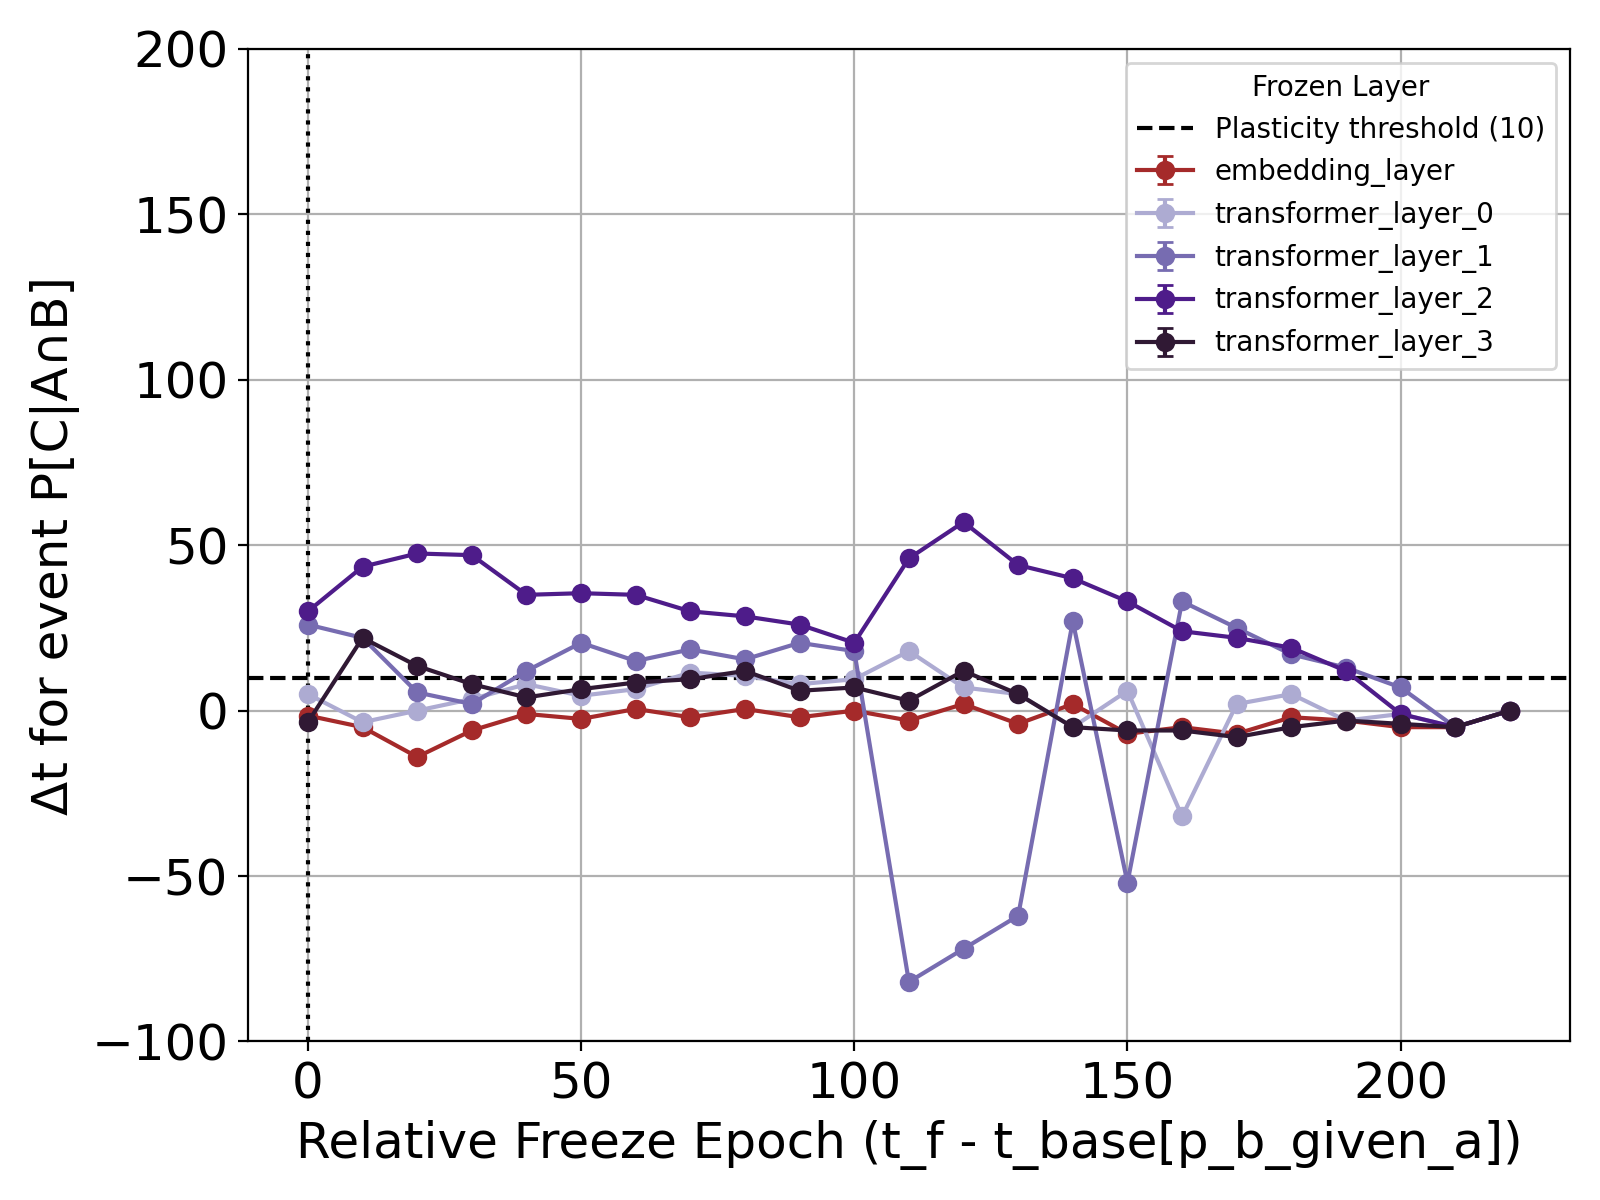
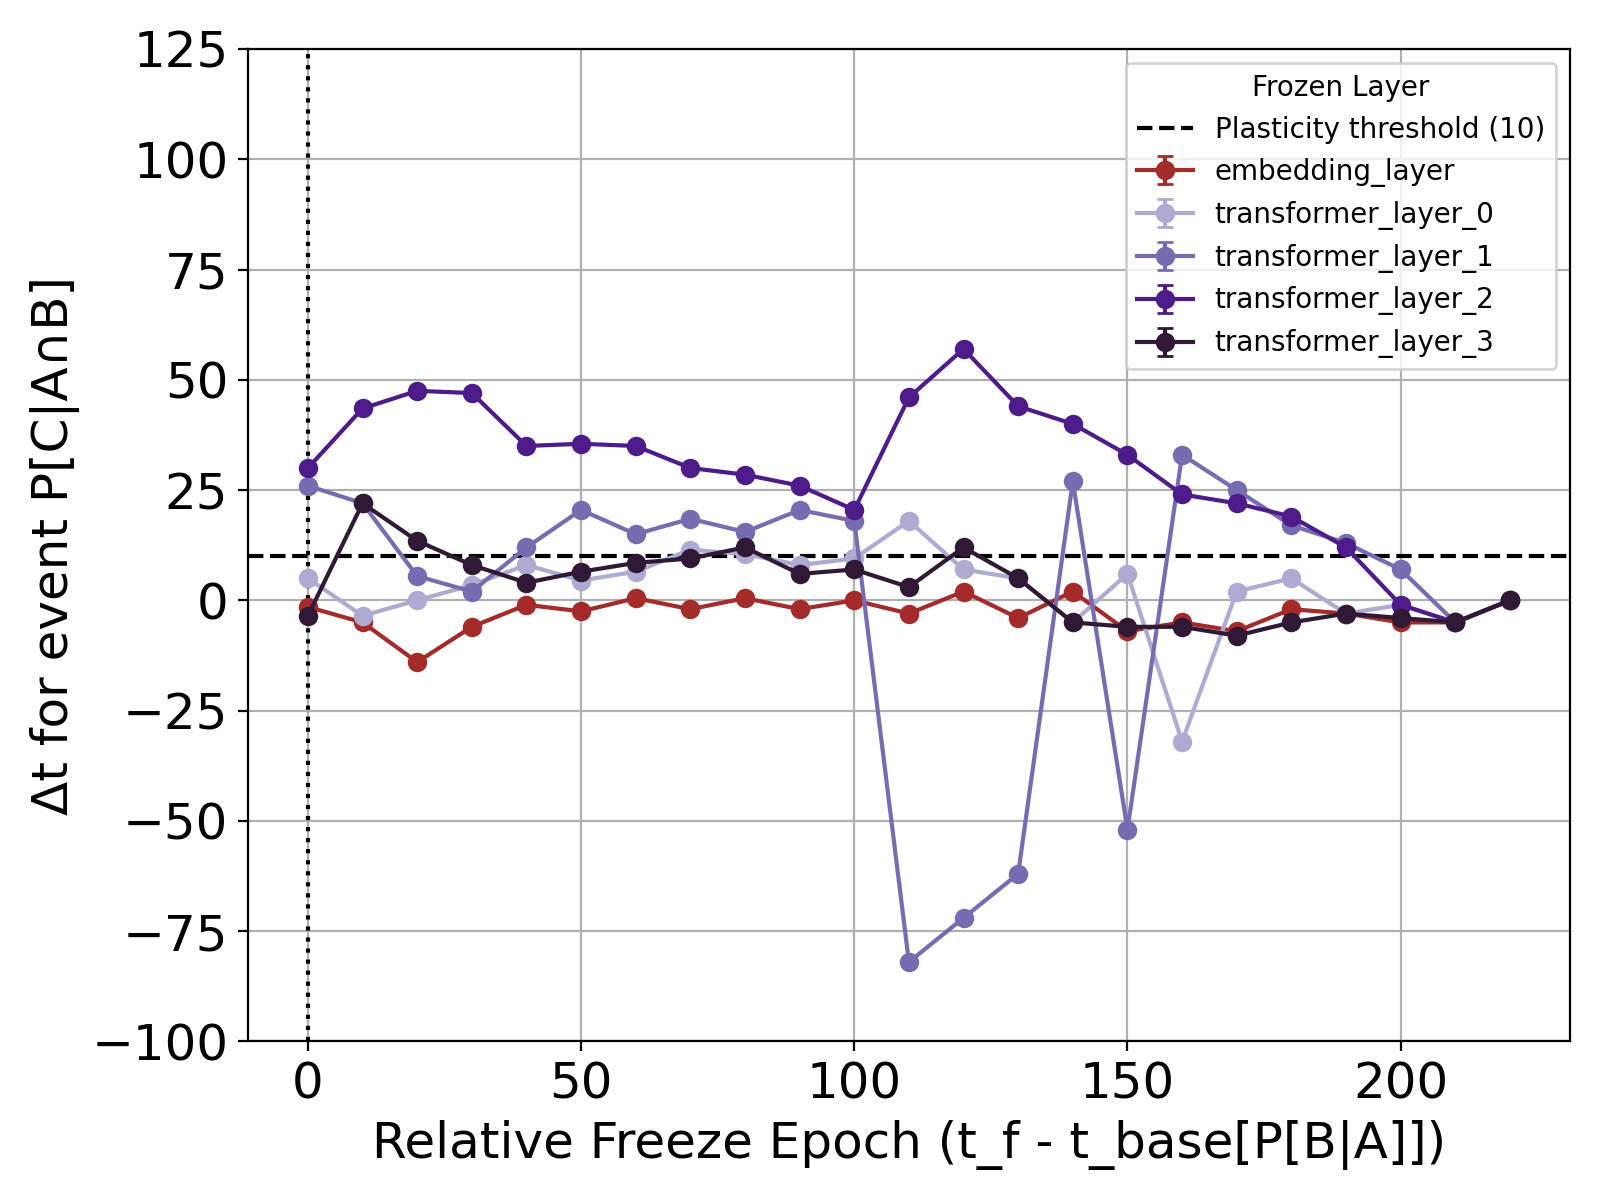
Added plasticity window results for decomposition relative to P[B|A]

diff --git a/src/models/plot_delta_time_to_stage.py b/src/models/plot_delta_time_to_stage.py
@@ -11,12 +11,12 @@ METRIC_KEYS = {
     "p_a": "predicted_in_context_accuracies",
 
     # Held out
-    "p_b_given_a": "predicted_in_context_correct_half_accuracies",
-    "p_c_given_ab": "predicted_in_context_correct_half_exact_accuracies",
+    # "p_b_given_a": "predicted_in_context_correct_half_accuracies",
+    # "p_c_given_ab": "predicted_in_context_correct_half_exact_accuracies",
 
     # Composition
-    # "p_b_given_a": "predicted_in_context_correct_candidate_accuracies",
-    # "p_c_given_ab": "correct_within_candidates"
+    "p_b_given_a": "predicted_in_context_correct_candidate_accuracies",
+    "p_c_given_ab": "correct_within_candidates"
 }
 
 
@@ -349,22 +349,26 @@ def plot_deltas_with_errorbars(
         #     ax.annotate(str(n), (x, y), textcoords="offset points", xytext=(0, 6), ha="center", fontsize=8)
 
     ax.axhline(y=epsilon, color="black", linestyle="--", label=f"Plasticity threshold ({epsilon})")
-
-    if x_mode == "absolute":
-        ax.set_xlabel("Freeze Epoch", fontsize=18)
-    else:
-        if bin_width > 1:
-            xlabel = f"Relative Freeze Epoch (t_f - t_base[{anchor_key or stage_key}])" 
-        else:
-            xlabel = f"Relative Freeze Epoch"
-        ax.set_xlabel(xlabel, fontsize=18)
-        ax.axvline(x=0, color="black", linestyle=":", alpha=1.0)
-
+    
     stage_key_map = {
         "p_b_given_a": "P[B|A]",
         "p_a": "P[A]",
         "p_c_given_ab": "P[C|A∩B]",
     }
+    if x_mode == "absolute":
+        ax.set_xlabel("Freeze Epoch", fontsize=18)
+    else:
+        if bin_width > 1:
+            if anchor_key is None:
+                xlabel = f"Relative Freeze Epoch (t_f - t_base[{stage_key_map.get(stage_key, stage_key)}])" 
+            else:
+                xlabel = f"Relative Freeze Epoch (t_f - t_base[{stage_key_map.get(anchor_key, anchor_key)}])" 
+        else:
+            xlabel = f"Relative Freeze Epoch"
+        ax.set_xlabel(xlabel, fontsize=18)
+        ax.axvline(x=0, color="black", linestyle=":", alpha=1.0)
+
+    
 
     init_seed_str = ",".join(str(s) for s in (init_seeds if init_seeds is not None else [1, 3, 42]))
     ax.set_ylabel(f"Δt for event {stage_key_map.get(stage_key, stage_key)}", fontsize=18)
@@ -389,7 +393,7 @@ def plot_deltas_with_errorbars(
     if output_path:
         plt.savefig(output_path, dpi=200)
         plt.savefig(output_path.replace(".png", ".pdf"), dpi=200)
-        print(f"Plot saved to {output_path}.png")
+        print(f"Plot saved to {output_path}")
     else:
         plt.show()
 

diff --git a/src/models/find_incomplete_runs.py b/src/models/find_incomplete_runs.py
@@ -137,9 +137,12 @@ DECOMPOSITION_FROZEN_EPOCHS: Dict[int, Dict[int, List[int]]] = {
         3: [377, 387, 397, 407, 417, 427, 437, 447, 457, 467],
     },
     4: {
-        42: [80, 90, 100, 110, 120, 130, 140, 150, 160, 170, 180, 190, 200, 210, 220, 230, 240, 250, 260, 270, 280, 290, 300, 310, 320, 330, 340, 350, 360, 370, 380, 390, 400, 410, 420, 430, 440, 450, 460, 470, 480, 490, 500, 510, 520, 530, 540, 550],
-        1:  [40, 50, 60, 70, 80, 90, 100, 110, 120, 130, 140, 150, 160, 170, 180, 190, 200, 210, 220, 230, 240, 250, 260, 270, 280, 290, 300, 310, 320, 330, 340, 350, 360, 370, 380, 390, 400, 410, 420, 430, 440, 450, 460, 470, 480, 490, 500, 510, 520, 530, 540, 550],
-        3:  [62, 72, 82, 92, 102, 112, 122, 132, 142, 152, 162, 172, 182, 192, 202, 212, 222, 232, 242, 252, 262, 272, 282, 292, 302, 312, 322, 332, 342, 352, 362, 372, 382, 392, 402, 412, 422, 432, 442, 452, 462, 472, 482, 492],
+        # 42: [80, 90, 100, 110, 120, 130, 140, 150, 160, 170, 180, 190, 200, 210, 220, 230, 240, 250, 260, 270, 280, 290, 300, 310, 320, 330, 340, 350, 360, 370, 380, 390],
+        42: [400, 410, 420, 430, 440, 450, 460, 470, 480, 490, 500, 510, 520, 530, 540, 550],
+        # 1:  [40, 50, 60, 70, 80, 90, 100, 110, 120, 130, 140, 150, 160, 170, 180, 190, 200, 210, 220, 230, 240, 250, 260, 270, 280, 290, 300, 310, 320, 330, 340, 350, 360, 370, 380, 390, 400, 410]
+        1:  [420, 430, 440, 450, 460, 470, 480, 490, 500, 510, 520, 530, 540, 550],
+        # 3:  [62, 72, 82, 92, 102, 112, 122, 132, 142, 152, 162, 172, 182, 192, 202, 212, 222, 232, 242, 252, 262, 272, 282, 292, 302, 312, 322, 332, 342, 352],
+        3:  [362, 372, 382, 392, 402, 412, 422, 432, 442, 452, 462, 472, 482, 492],
     },
     5: {
         42: [124, 134, 144, 154, 164, 174, 184, 194, 204, 214, 224, 234, 244, 254, 264, 274, 284, 294, 304, 314, 324, 334, 344, 354, 364, 374, 384, 394, 404, 414, 424, 434, 444, 454, 464, 474, 484, 494, 504, 514, 524, 534, 544, 554, 564, 574, 584, 594, 604, 614, 624, 634, 644, 654, 664, 674, 684, 694, 704, 714, 724, 734],
